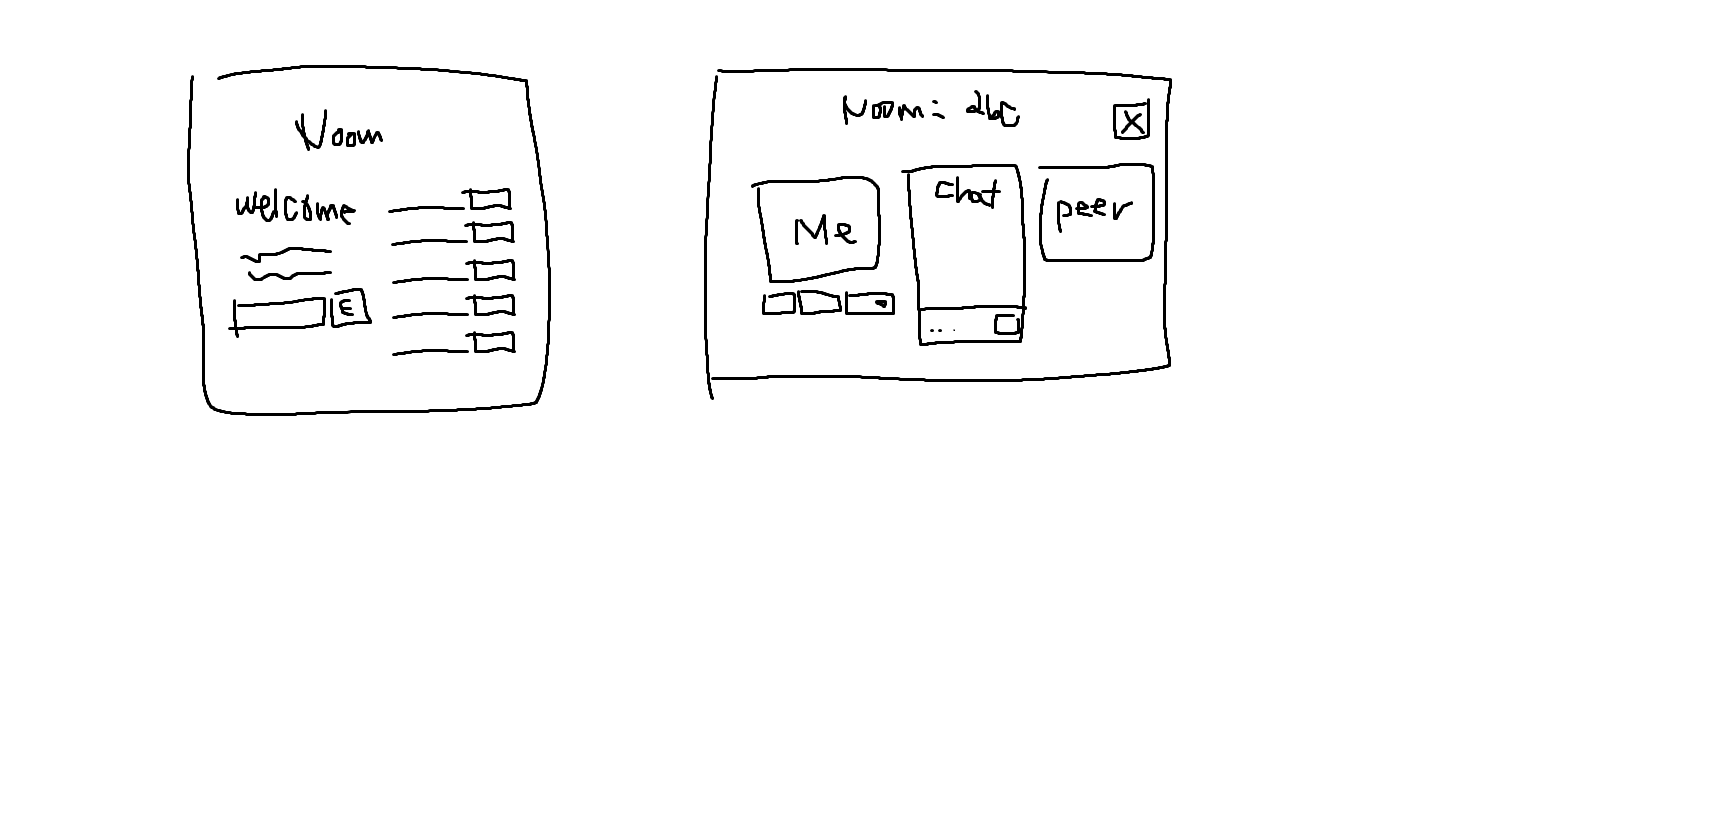
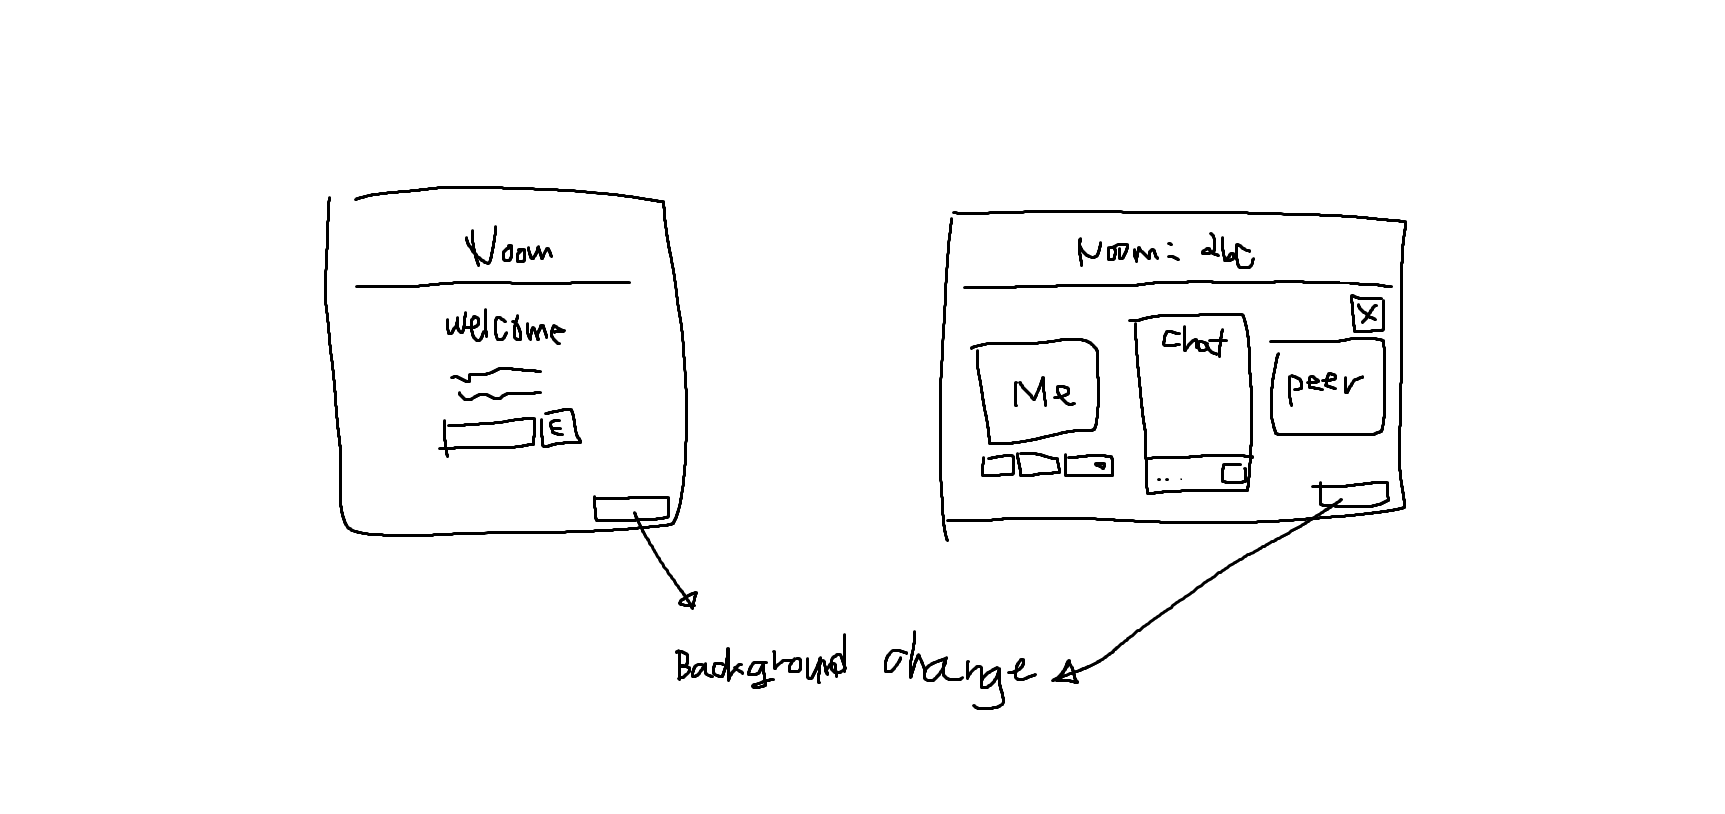
2021-08-24

diff --git a/src/public/css/style.css b/src/public/css/style.css
@@ -1,25 +1,109 @@
-#input {
+body {
+    position: relative;
+    overflow-y: hidden;
+    overflow-x: hidden;
+    display: flex;
+    flex-direction: column;
+    align-items: center;
     text-align: center;
+    font-family: 'Jeju Gothic', sans-serif;
+    color: white;
+    text-shadow: -0.05em 0 black, 0 0.05em black, 0.05em 0 black, 0 -0.05em black;
+    margin: 0;
+}
+
+#bgImg {
+    position: absolute;
+    left: 0;
+    top: 0;
+    z-index: -10;
+    width: 100%;
+    height: 100vh;
+    background-image: url(../img/0.jpg);
+    background-position-x: center;
+    background-size: cover;
+    background-repeat: no-repeat;
+    background-attachment: fixed;
+    opacity: 70%;
 }
 
 header {
+    margin-top: 2em;
     text-align: center;
 }
 
 #welcome {
+    margin: 5em;
+}
+
+h1 {
+    font-size: 6em;
+    margin: 0.2em;
+    padding-left: 2em;
+    padding-right: 2em;
+}
+
+h2 {
+    font-size: 4em;
+}
+
+h3 {
+    font-size: 2em;
+}
+
+h2,
+h3 {
+    font-weight: normal;
+    margin: 0.5em;
+}
+
+hr {
+    width: 60em;
+}
+
+input {
+    background-color: rgba(255, 255, 255, 0.2);
+    max-width: 100%;
+    height: auto;
+    padding: 0.3em;
+    font-family: inherit;
+    font-size: 2em;
+    outline: none;
+    border: none;
     text-align: center;
-}
+    color: white;
+    transition: all 0.4s;
+}   
+    input:hover {
+        background-color: rgba(255, 255, 255, 0.4);
+    }
+        input:hover::-webkit-input-placeholder {
+            color: rgba(50, 50, 50, 1.0);
+        }
+    
+    input:focus {
+        background-color: rgba(0, 0, 0, 0);
+        border-bottom: 1px solid white;
+    }
 
-#myStream {
-    float: left;
-    flex-direction: column;
-}
+    input#room-name-text {
+        width: 15em;
+        color: white;
+    }
 
-#buttons {
-    display: flex;
-    width: 400px;
-}
+    input#todo-text {
+        width: 15em;
+    }
 
-#peerFace {
-    float: left;
-}
+    input[type="submit"] {
+        border-radius: 0.3em;
+        margin-left: 0.3em;
+        height: 1.7em;
+    }
+        input[type="submit"]:active {
+            background-color: rgba(255, 255, 255, 0.1);
+        }
+    
+    input#change-name-button {
+        font-size: 1.3em;
+    }

diff --git a/src/public/js/background.js b/src/public/js/background.js
@@ -1,0 +1,32 @@
+"use strict";
+
+const images = [
+    "puppy.jpg",
+    "cat.jpg",
+    "lion.jpg",
+    "penguin.jpg",
+    "polar_bear.jpg",
+]
+
+const bgImg = document.getElementById("bgImg");
+let currentBackgroundImg = "url(public/img/puppy.jpg)";
+bgImg.style.backgroundImage = currentBackgroundImg;
+const backgroundSelect = document.getElementById("background-img-change");
+
+function handleBgImgChange() {
+    const selected = backgroundSelect.options[backgroundSelect.selectedIndex].text;
+    currentBackgroundImg = `url(public/img/${selected}.jpg)`
+    bgImg.style.backgroundImage = currentBackgroundImg;
+}
+
+backgroundSelect.addEventListener("input", handleBgImgChange);
+
+images.forEach((img) => {
+    const option = document.createElement("option");
+    option.value = img;
+    option.innerText = img.slice(0, -4);
+    if (bgImg.style.backgroundImage === `url(public/img/${img})`) {
+        option.selected = true;
+    }
+    backgroundSelect.appendChild(option);
+})

diff --git a/src/public/js/app.js b/src/public/js/app.js
@@ -102,7 +102,7 @@ camerasSelect.addEventListener("input", handleCameraChange);
 
 const main = document.getElementById("main");
 const welcome = document.getElementById("welcome");
-const welcomeForm = welcome.querySelector("form");
+const welcomeForm = document.getElementById("room-name");
 
 async function initCall() {
     main.hidden = true;

diff --git a/src/server.js b/src/server.js
@@ -28,7 +28,6 @@ wsServer.on("connection", (socket) => {
         socket.to(roomName).emit("ice", ice);
     });
     socket.on("peer_exit", (roomName) => {
-        app.rooms.delete(roomName);
         socket.to(roomName).emit("peer_exit");
     })
 });
